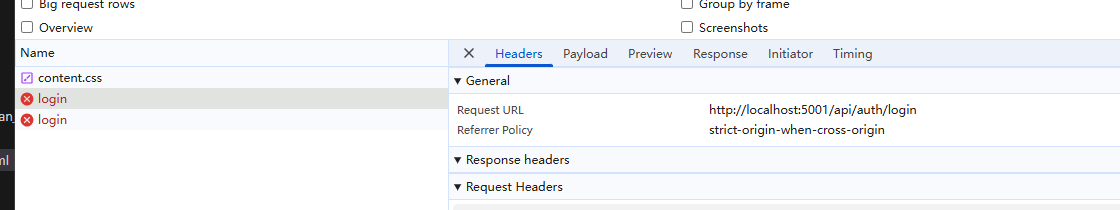
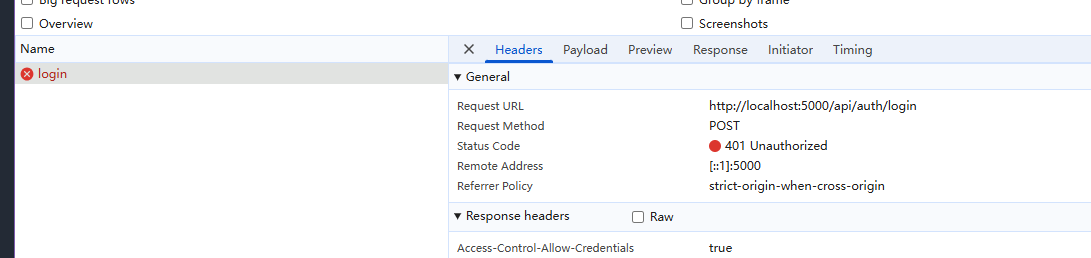
fix: 修复登录密码验证失败问题
## 问题
本地部署后登录失败，提示"用户名或密码错误"
原因：预写的 bcrypt 哈希值可能不正确

## 解决方案
改为使用 bcrypt.GenerateFromPassword 动态生成密码哈希

## 文件变更
- backend/internal/model/database.go:
  - 添加 bcrypt 导入
  - initDefaultUser() 函数改为动态生成密码哈希

## 本地使用说明
如果之前已运行过服务，需要删除数据库文件后重新启动：
```bash
# 删除旧数据库（如果有）
rm -f inspection.db

# 重新启动后端
cd backend
go mod tidy
go run ./cmd/main.go
```

默认账号：admin / admin

Changed region(s): [[0.0, 0.0, 1.0, 0.9143], [0.4051, 0.9429, 1.0, 1.0], [0.0, 0.7429, 0.0312, 1.0]]

diff --git a/backend/internal/model/database.go b/backend/internal/model/database.go
@@ -5,6 +5,7 @@ import (
 	"ops-inspection/internal/config"
 
 	"github.com/glebarez/sqlite" // 纯 Go 实现，无需 CGO
+	"golang.org/x/crypto/bcrypt"
 	"gorm.io/gorm"
 	"gorm.io/gorm/logger"
 )
@@ -83,11 +84,16 @@ func initDefaultUser() error {
 		return nil
 	}
 
-	// 默认用户 admin/admin (密码会在实际运行时由 bcrypt 生成)
-	// 这里使用预生成的 bcrypt hash: admin
+	// 使用 bcrypt 动态生成密码哈希
+	hashedPassword, err := bcrypt.GenerateFromPassword([]byte("admin"), bcrypt.DefaultCost)
+	if err != nil {
+		return fmt.Errorf("failed to hash password: %w", err)
+	}
+
+	// 默认用户 admin/admin
 	defaultUser := User{
 		Username:    "admin",
-		Password:    "$2a$10$N9qo8uLOickgx2ZMRZoMyeIjZAgcfl7p92ldGxad68LJZdL17lhWy", // "admin"
+		Password:    string(hashedPassword),
 		DisplayName: "系统管理员",
 	}
 
